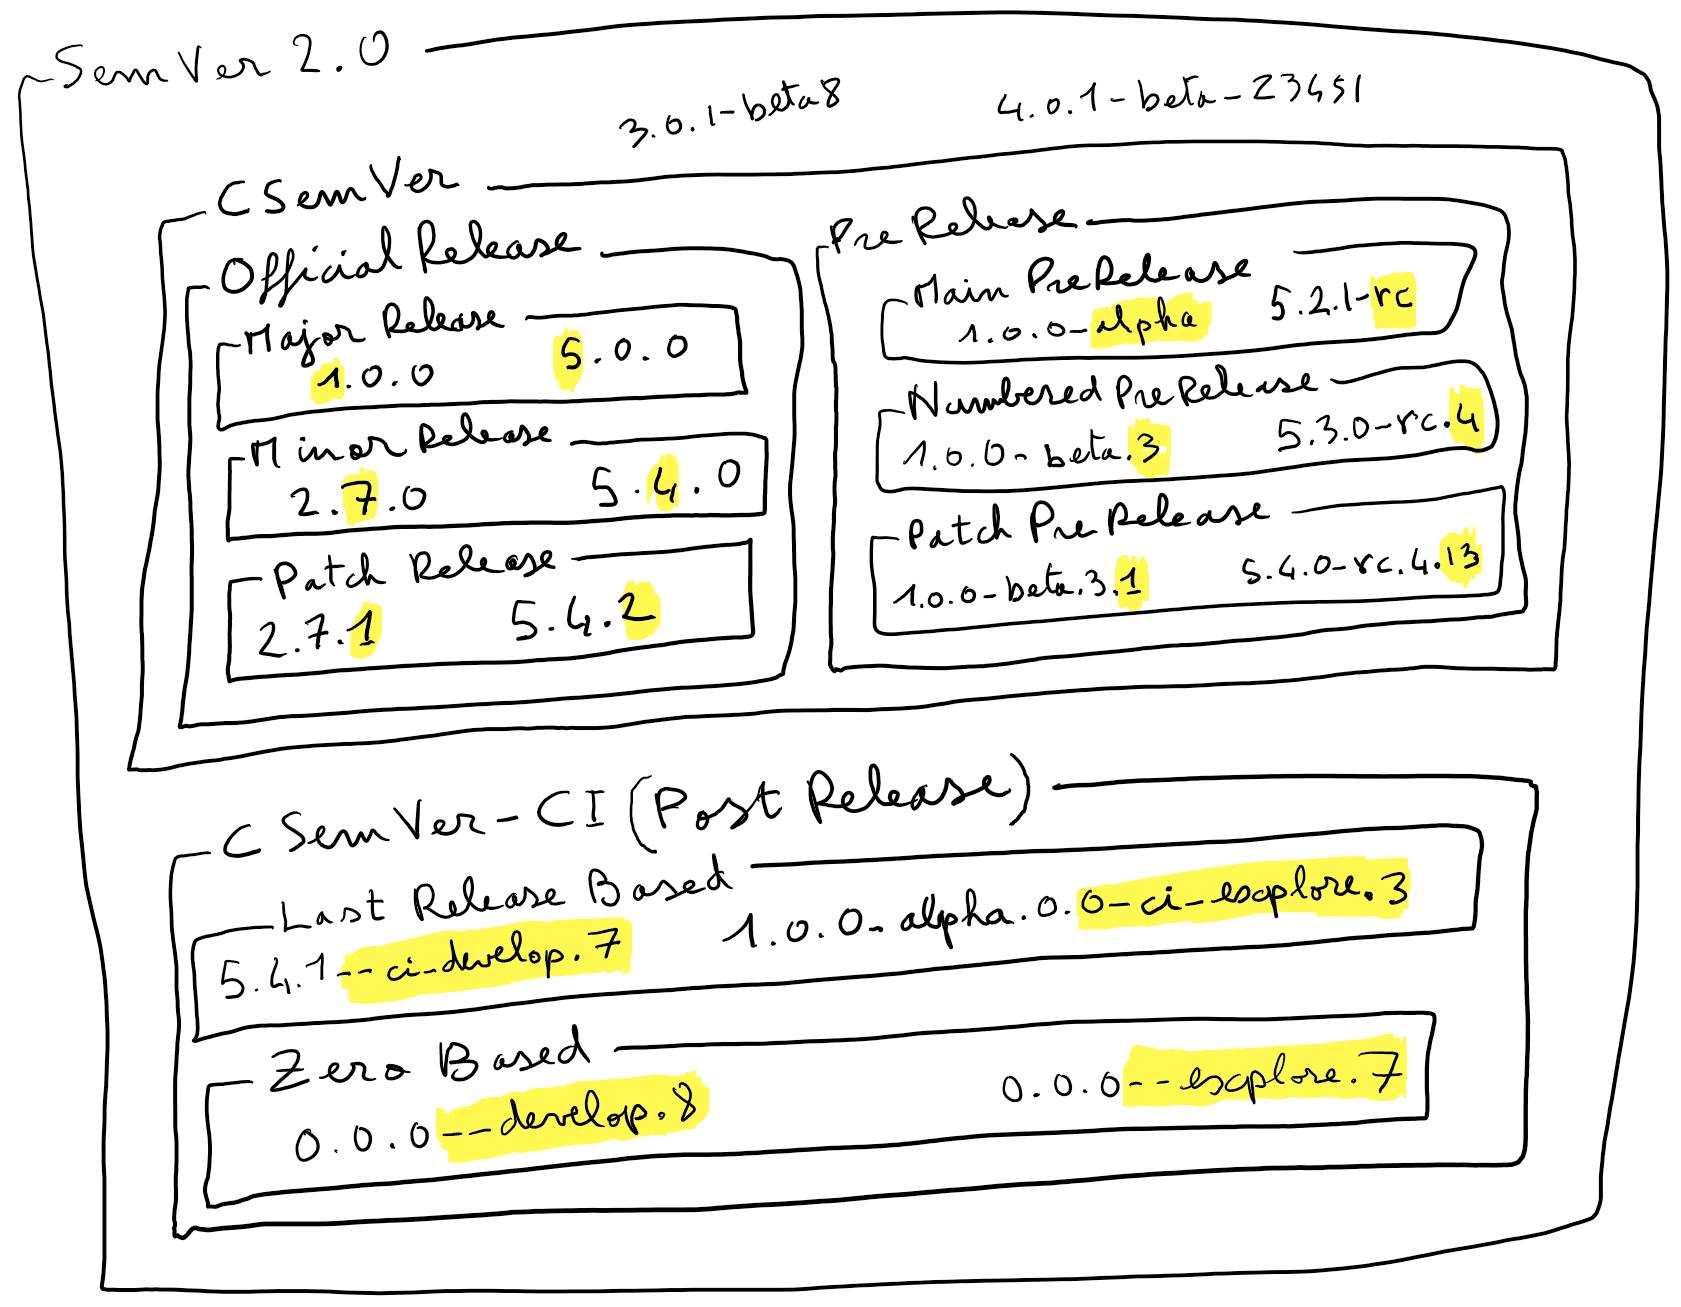
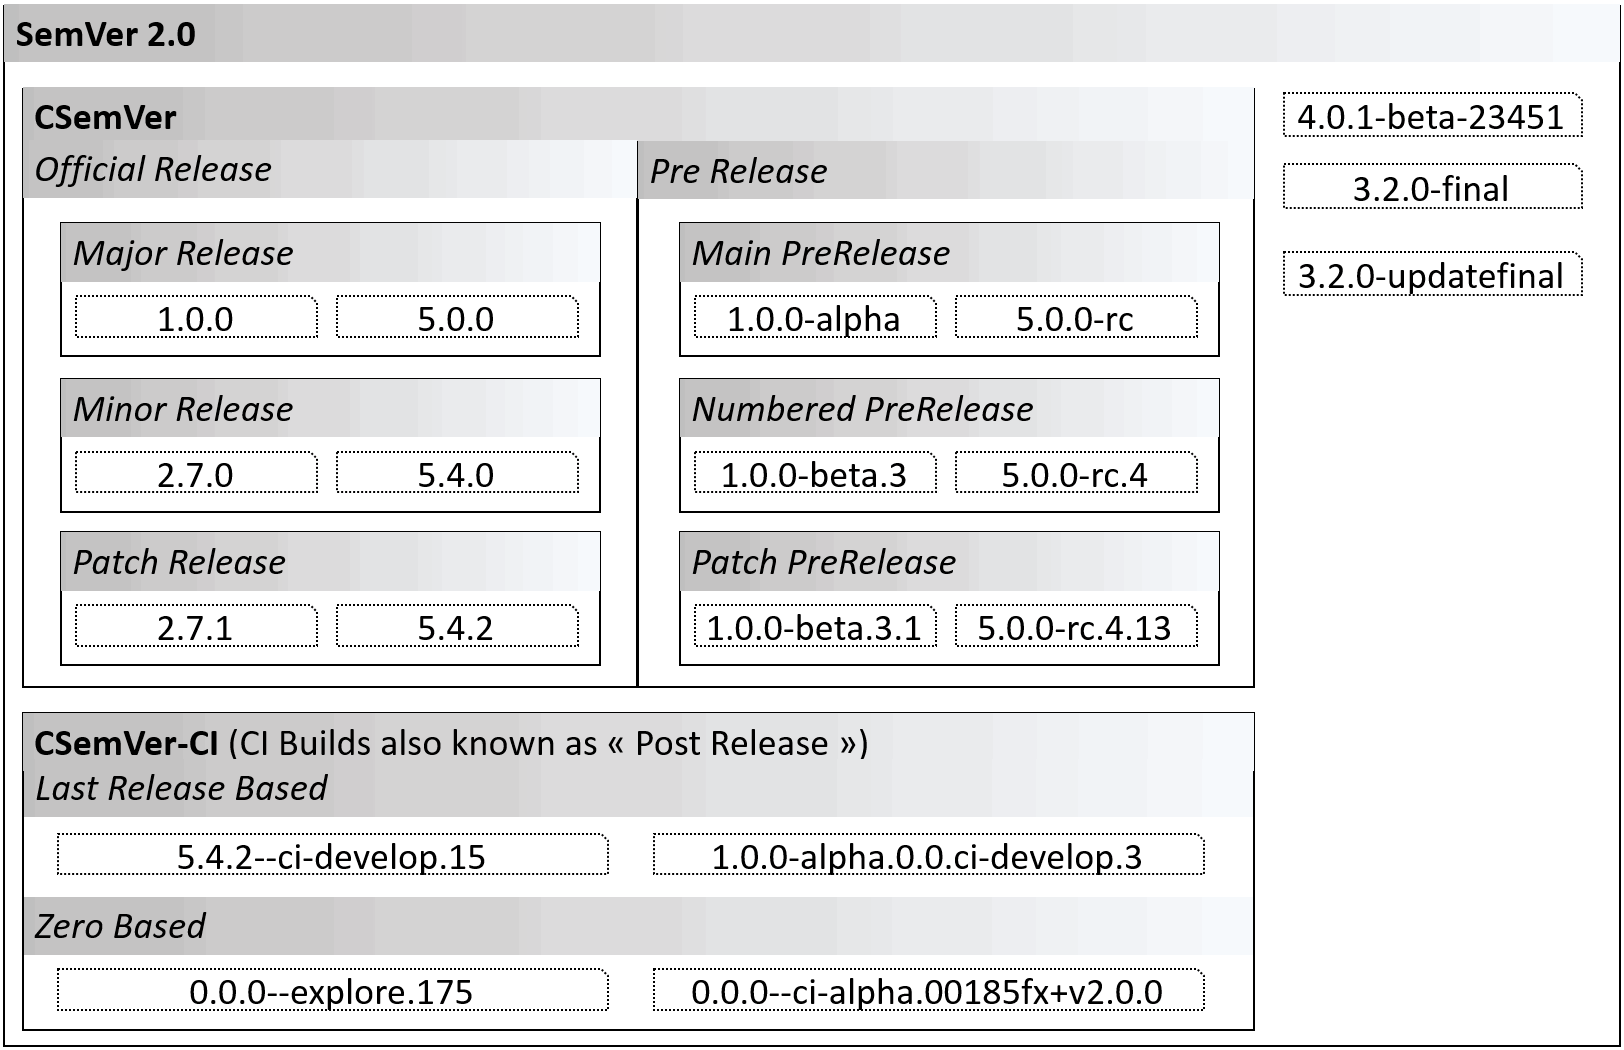
Updated versions table.

diff --git a/index.html b/index.html
@@ -62,7 +62,7 @@
         <dd>Versions are based on a previous release. They are greater than their base version but always lower than any successor of their base.</dd>
     </dl>
     
-    <img src="CSemVer.png" style="width:95%" />
+    <img src="CSemVer.png" style="width:100%" />
 
     <h2>Rationales &amp; examples</h2>
     <p>
